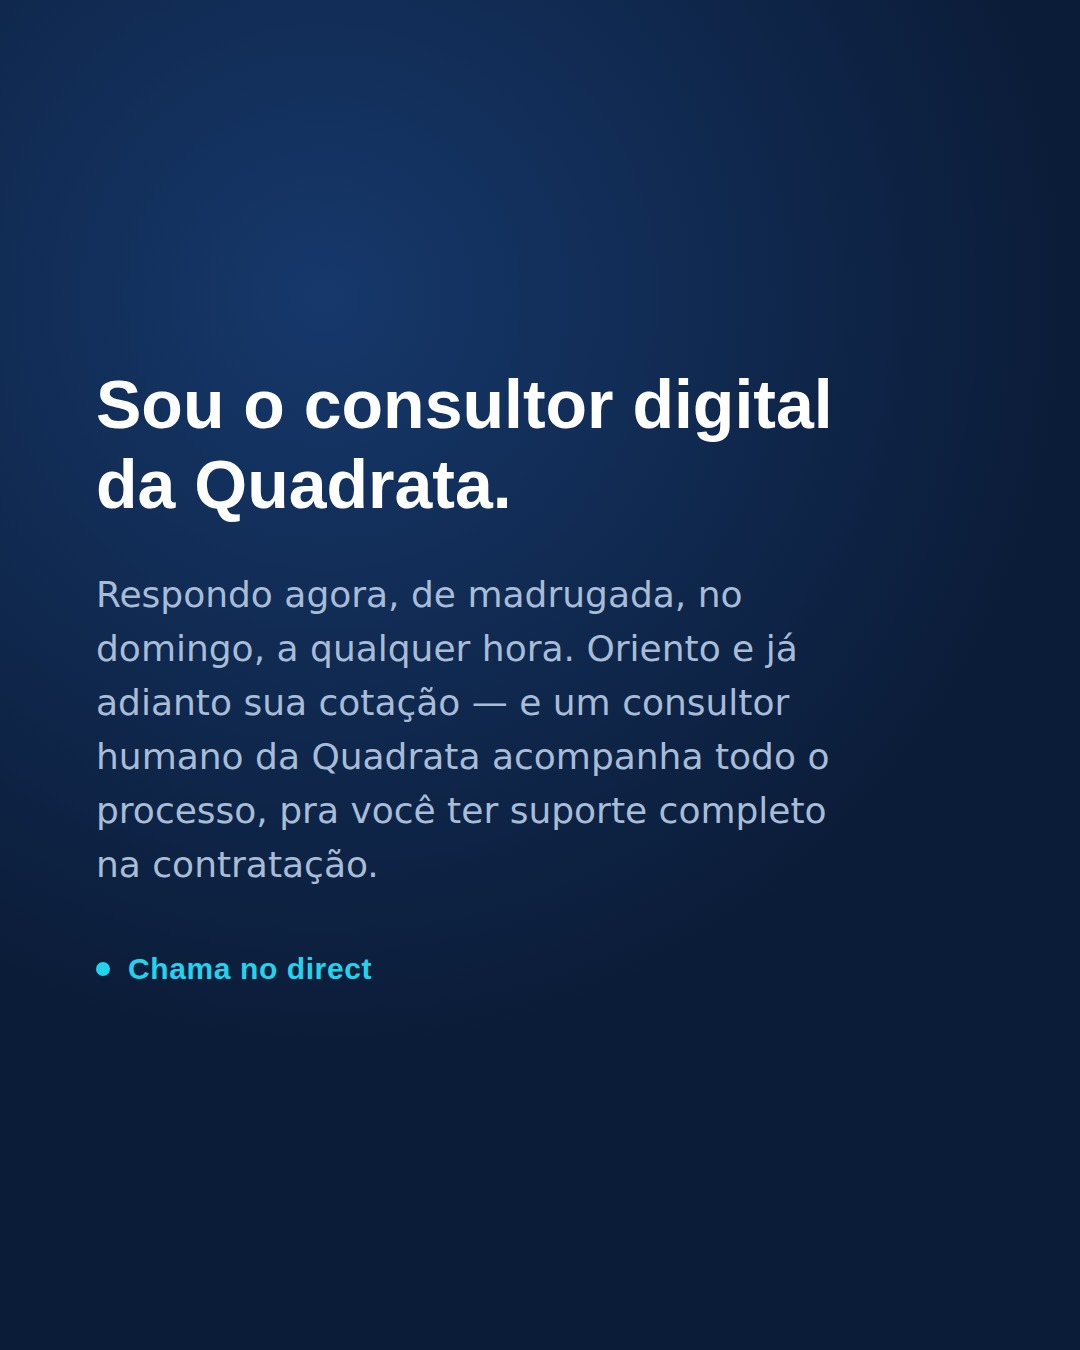
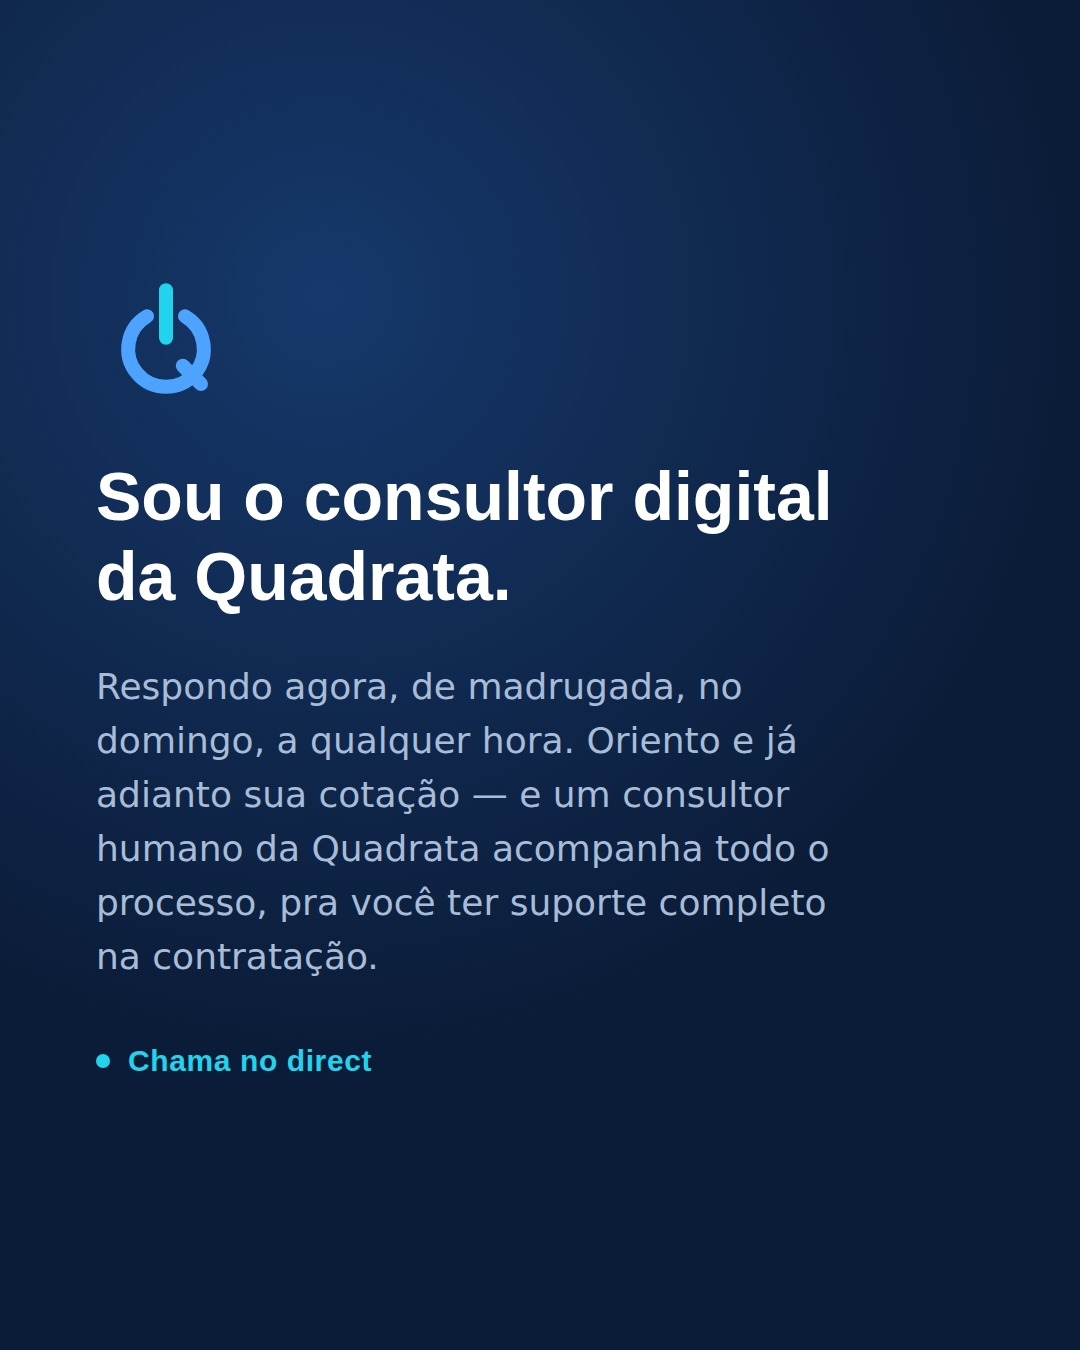
Adiciona o monograma do FabrícIO na arte do item #7
Estava vazio sem a marca — mesmo monograma usado nos posts de
marca/fabricio/lancamento/.

Claude-Session: https://claude.ai/code/session_01GTh9iNpCgttNL11Vx5gEKW

Changed region(s): [[0.0917, 0.2178, 0.7639, 0.7467], [0.0917, 0.7778, 0.3361, 0.8089]]

diff --git a/marca/fabricio/conteudo/templates/semana1-terca-consultor-digital.dc.html b/marca/fabricio/conteudo/templates/semana1-terca-consultor-digital.dc.html
@@ -9,6 +9,11 @@
 </head>
 <body>
 <div id="card" style="width: 1080px; height: 1350px; background: radial-gradient(circle at 30% 22%, #16386b 0%, #0b1c38 58%); padding: 96px; box-sizing: border-box; display: flex; flex-direction: column; justify-content: center; gap: 44px">
+  <svg width="140" height="140" viewBox="0 0 100 100" fill="none" aria-hidden="true">
+    <path d="M63.5 31.62 A27 27 0 1 1 36.5 31.62" stroke="#4da3ff" stroke-width="10" stroke-linecap="round"></path>
+    <path d="M62 67 L75 80" stroke="#4da3ff" stroke-width="10" stroke-linecap="round"></path>
+    <path d="M50 13 L50 47" stroke="#22d3ee" stroke-width="10" stroke-linecap="round"></path>
+  </svg>
   <div style="font-family:'Space Grotesk',sans-serif; font-size: 68px; font-weight: 700; line-height: 1.18; color: #ffffff; max-width: 820px">Sou o consultor digital da Quadrata.</div>
   <div style="font-size: 36px; line-height: 1.5; color: #a8bcd8; max-width: 780px">Respondo agora, de madrugada, no domingo, a qualquer hora. Oriento e já adianto sua cotação &mdash; e um consultor humano da Quadrata acompanha todo o processo, pra você ter suporte completo na contratação.</div>
   <div style="display:flex; align-items:center; gap:18px; margin-top: 16px">
